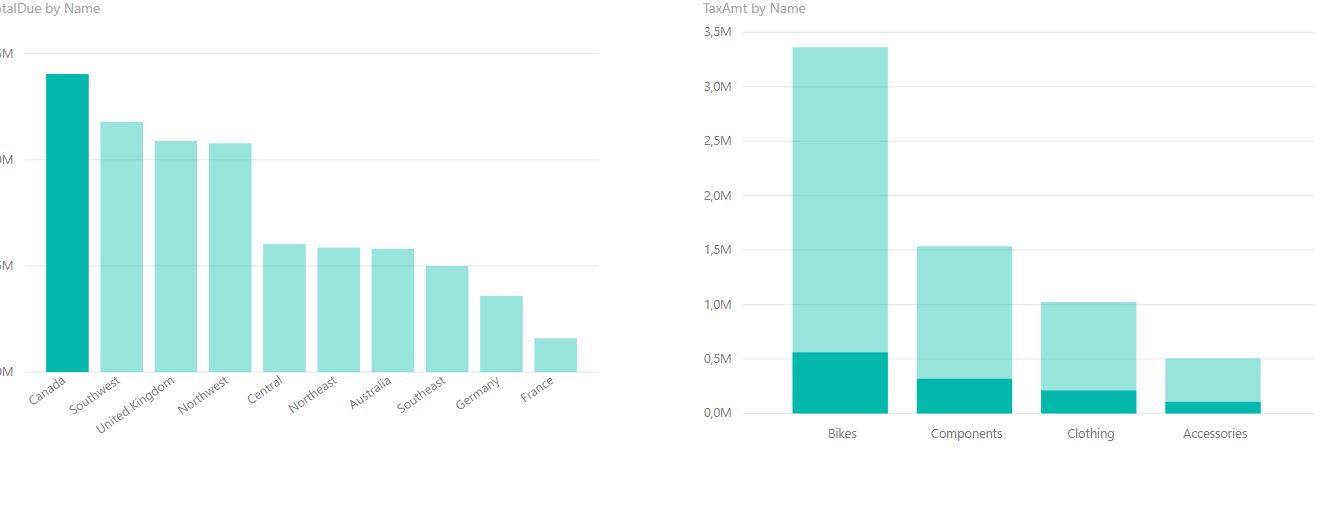
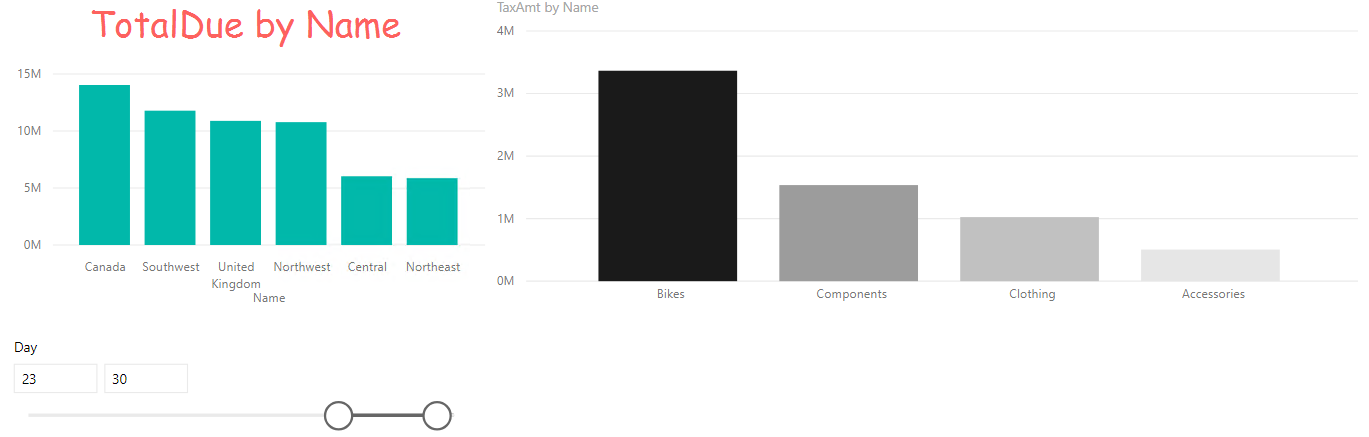
Verder gewerkt t/m module 03

diff --git a/03-Self-service-reporting/03-csv-inladen.md b/03-Self-service-reporting/03-csv-inladen.md
@@ -8,60 +8,46 @@ Start Power BI Desktop met een nieuw, leeg rapport zonder verbinding naar een ku
 
 ## CSV-Data inladen
 
-Importeer een CSV-bestand via "Get Data" -> "Text/CSV"
+Om een CSV-bestand in te laden ga je naar **Get Data** -> **Text/CSV**
 
 ![Get data](img/importeer-csv.png)
 
-Importeer het bestand ["2014-01.csv"](csv/2014-01.csv) uit de map "csv".
+Importeer het bestand ["2014-01.csv"](csv/2014-01.csv) uit de map "C:\Repos\powerbi-training\03-Self-service-reporting\csv".
 
-## Culture van een CSV-berstand
+## Data verkennen
 
-Afhankelijk van de regio-instellingen van je Windows-installatie (de _culture_) gaat Power BI (net als bijv. Excel) anders met punten en komma's om:
+Aan de rechterzijde zie je nu een tabel "2014-01" staan, met daaronder enkele velden. Momenteel zit er nog niet heel veel nuttige informatie in het datamodel: er is data van één periode uit 2014 aanwezig, maar alle verwijzingen naar winkels, producten en verkoopgebieden zijn enkel nog technische sleutels (de kolommen die een database onder water gebruikt om rijen uniek te kunnen identificeren - in dit geval bijv. `TerritoryID` en `ProductID`).
 
-* In Nederland gebruiken we een decimale komma, en een punt als duizendtalscheiding (dus hebben we het over € 1.000,00)
-* In de V.S. (waar AdventureWorks zit) wordt een decimale punt gebruikt, en een komma als duizendtalscheiding (dus schrijf je $ 1,000.00)
+Maak nu drie Power BI visualisaties. Zorg ervoor dat de "per" velden hieronder niet worden gesommeerd, maar netjes uitsplitsen! Gebruik de standaard staafdiagrammen, en voer de bijbehorende wijzigingen door
 
-In het screenshot hieronder zie je een dergelijke "misinterpretatie": de TotalDue van een bepaalde verkoop staat op "263243267":
+1. **TotalDue** per **TerritoryID**
+   * Maak de titel van de grafiek:
+     * gecentreerd
+     * rood
+     * lettertype comic sans, 24pt (*en laat dit de laatste keer zijn dat je comic sans gebruikt in een datavisualisatie*)
+   * Voeg voor **TerritoryID** een **Top 6 filter** toe, op basis van **TotalDue**
+   * Verander de X-as van **Continuous** naar **Categorical**
+   * Voeg een titel toe aan de X-as
+2. **TaxAmt** per **ProductID**
+   * Maak de X-as **Categorical**, en zet deze vervolgens uit
+   * Stel als **Data colors** een **Conditional formatting** in (hint: klik op de puntjes naar *Default color*)
+     * Stel de minimum-kleur in op de lichtste grijstint binnen de thema-kleuren
+     * Stel de maximum-kleur in op de donkerste grijstint (niet zwart) binnen de thema-kleuren
+     * Laat de overige instellingen standaard staan
+     * Klik "OK"
+3. Voeg een **slicer** toe voor het veld **Day**
 
-![Preview import 2014-01](img/2014-01.png)
+![Slicer-element](img/add-slicer.png)
 
-Wanneer je de inhoud van ["2014-01.csv"](csv/2014-01.csv) bekijkt, zie je dat dit eigenlijk kommagetal had moeten zijn:
+> Wanneer je het bestand ["2014-01.csv"](csv/2014-01.csv) in een teksteditor bekijkt (op de cursus-VM staan o.a. *Visual Studio Code* en *Notepad++* geïnstalleerd), dan zul je zien dat het veld *Day* hier niet voorkomt. Power BI heeft hier gezien dat we een datum-veld in de brondata hadden zitten, en hier voor ons alvast een hiërarchie (Year, Quarter, Month, Day) op aangebracht.
+>
+> Handig, want veel van onze analyses zetten we uit over de tijd heen, en zelden hebben we daarbij het datum-niveau direct nodig!
 
-![Werkelijke waarde regel 1 2014-01](img/2014-01-csv.png)
+Hieronder zie je een mogelijke uitkomst.
 
-Klik in het preview-venster daarom niet op *Load* maar op *Edit*. Er opent zich nu een nieuw venster - de Power Query Editor.
+![Mogelijke uitkomst van rapport](img/mogelijke-uitkomst.png)
 
-## Power Query Editor
-
-Power Query is de "ETL" van Power BI: hierin kun je allerhande bestandstypen inladen, en volgens een dataflow inladen.
-
-> Aan de achterzijde van Power Query zit een functionele programmeertaal ("Power Query Language, informally known as M") waarmee je bijzonder krachtig dataflows kunt inrichten om data te laden in je Power BI model. **Je hoeft deze programmeertaal zelden te gebruiken**. Veruit de meeste bewerkingen op je data kun je heel goed via de Ribbon doen (of via een rechtsklik op een kolom, waarmee je ook acties te zien krijgt). Eén van de uitzonderingen waar je wél de query taal nodig hebt is bij het inladen van data met een andere *culture*.
-
-Later gaan we dieper in op Power Query - voor nu behandelen we alleen wat er nodig is om Power Query te kunnen gebruiken:
-
-![Power Query venster - de basics](img/power-query-venster-basics.png)
-
-1. Aan de linkerzijde zie je alle *queries*. Elke tabel die in het datamodel van Power BI opgeslagen staat heeft minimaal één query aan de achterzijde. Momenteel zie je dus één query met de naam '2014-01'.
-2. Van de geselecteerde query zie je aan de rechterzijde de *query settings*. Hier zie je twee componenten
-   * De naam (dus "2014-01")
-   * De *Applied steps*. Dit is vergelijkbaar met een dataflow, en heeft een één-op-één relatie met een achterliggend stuk code
-3. De *Advanced Editor* geeft toegang tot de code die de dataflow definieert.
-
-* Klik op onder "Applied Steps" achtereenvolgens op "Source", "Promoted Headers" en "Changed Type". In welke stap verdwijnt de decimale punt?
-* Open de "Advanced Editor" en bekijk de code. Herken je de stappen uit de dataflow?
-
-![Advanced Power Query Editor](img/advanced-editor.png)
-
-De stap waarin de decimale punt verloren gaat, is de stap met de naam `Changed Type`. Omdat hier een spatie in staat wordt deze in Power Query-taal weergegeven als `#"Changed Type"`. De uitvoer van deze stap is als volgt gedefinieerd:
-
-```OCaml
-#"Changed Type" = Table.TransformColumnTypes(#"Promoted Headers",{{"TotalDue", type number}, {"SubTotal", type number}, {"TaxAmt", type number}, {"Freight", type number}, {"ProductID", Int64.Type}, {"StoreID", Int64.Type}, {"TerritoryID", Int64.Type}, {"OrderDate", type datetime}})
-```
-
-* In [de documentatie van Power Query language over Table.TransformColumnType](https://docs.microsoft.com/en-us/powerquery-m/table-transformcolumntypes) staat beschreven hoe je de culture aanpast. Doe dit om ervoor te zorgen dat de decimale punten correct worden geïmplementeerd.
-* Als de cijfers in TotalDue, SubTotal, TaxAmt en Freight correct worden weergegeven (dus inclusief cijfers achter de komma), klik je op "Close & Apply" linksbovenin het Power Query venster
-
-![Close and Apply Power Query venster](img/power-query-close.png)
+**Sla het bestand op - we gaan hier in het volgende onderdeel mee verder**.
 
 ## Volgende modules
 

diff --git a/03-Self-service-reporting/04-sql-inladen.md b/03-Self-service-reporting/04-sql-inladen.md
@@ -1,6 +1,12 @@
 # SQL-bronnen inladen
 
-Om de data nuttiger te maken, gaan we er data uit andere tabellen aan toevoegen. Maak verbinding met de SQL Server-database die op je lokale VM staat:
+## Voorbereiding
+
+We gaan verder met het rapport dat we op een CSV-bestand hebben gebouwd.
+
+## Inladen van SQL-data
+
+De CSV-data uit de vorige opdracht was niet heel nuttig: er zat veel technische data in, en miste wat context. Om de data nu nuttiger te maken, gaan we er data uit andere tabellen aan toevoegen. Hiervoor maken we verbinding met de **SQL Server**-database die op je lokale VM staat:
 
 * Adres: .
 
@@ -8,11 +14,15 @@ Laat de Data Connectivity mode op "Import" staan:
 
 ![Connect to SQL Server](img/sqlserver-connect.png)
 
+In het volgende venster word je gevraagd hoe je verbinding met deze database wilt maken. Laat de standaard-instelling voor **Windows** credentials en **use my current credentials** hier staan, klik op **Connect**.
+
+![Connection credentials](img/sqlserver-connect-credentials.png)
+
 Wanneer er een waarschuwing komt over een niet-versleutelde verbinding ("encryption support"), geef hier dan "OK":
 
 ![Encryption support warning](img/encryption-support.png)
 
-Het venster "Navigator" opent. Klap hier de database "AdventureWorks2017" uit. Je ziet nu eerst een lijst van _views_, daaronder de _tabellen_ en uiteindelijk _table-valued functions_. Selecteer de volgende _tabellen_:
+Het venster "Navigator" opent. Klap hier de database "AdventureWorks2017" uit. Je ziet nu eerst een lijst van _views_, daaronder de _tabellen_ en uiteindelijk _table-valued functions_. Merk op dat hier verschillende icoontjes voor zijn! Selecteer de volgende _tabellen_:
 
 * Person.CountryRegion
 * Sales.SalesTerritory
@@ -26,7 +36,7 @@ Je kunt hier de zoekfunctie voor gebruiken:
 
 Klik op "Load" om de data in te laden.
 
-Vervang nu in de rapportage de TerritoryID met de kolom "Name" uit SalesTerritory. Vervang ProductID door de kolom "Name" uit ProductCategory.
+Vervang nu in de rapportage de TerritoryID met de kolom "Name" uit SalesTerritory. Vervang ProductID door de kolom "Name" uit ProductCategory. Zet de weergave van de X-as weer aan voor deze grafiek.
 
 ![TotalDue by Territory, TaxAmt by Category](img/pbi-secondviz.png)
 
@@ -34,8 +44,11 @@ Laad nu de tabel "Store" vanuit de Azure SQL Database "AdventureworksLT"
 
 * server: bitrainerpbi.database.windows.net
 * database: AW
+
+Selecteer hiervoor **Database credentials**, met de volgende logingegevens:
+
 * username: powerbiuser
-* apssword: PowerBI2
+* pass: PowerBI2
 
 Voeg nu in het rapport achtereenvolgens de volgende velden toe:
 
